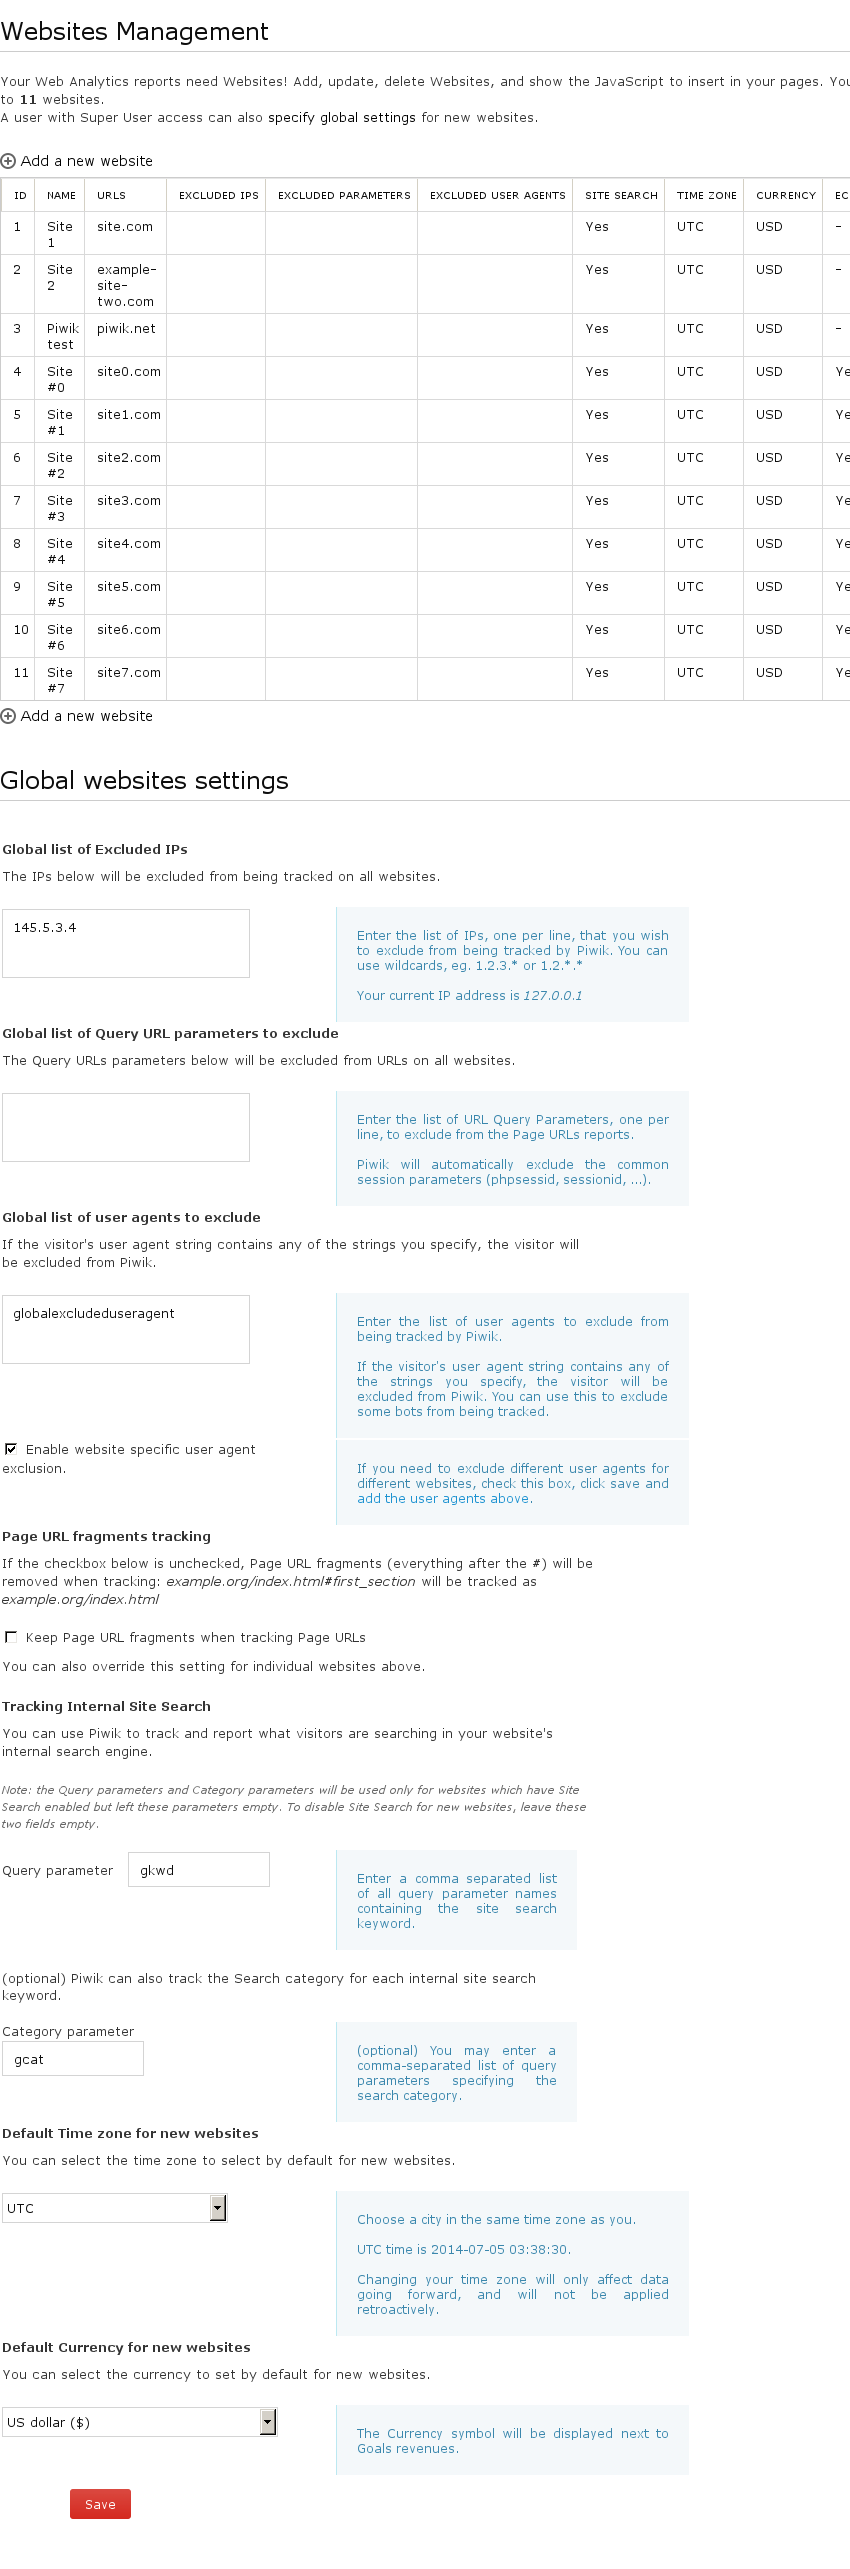
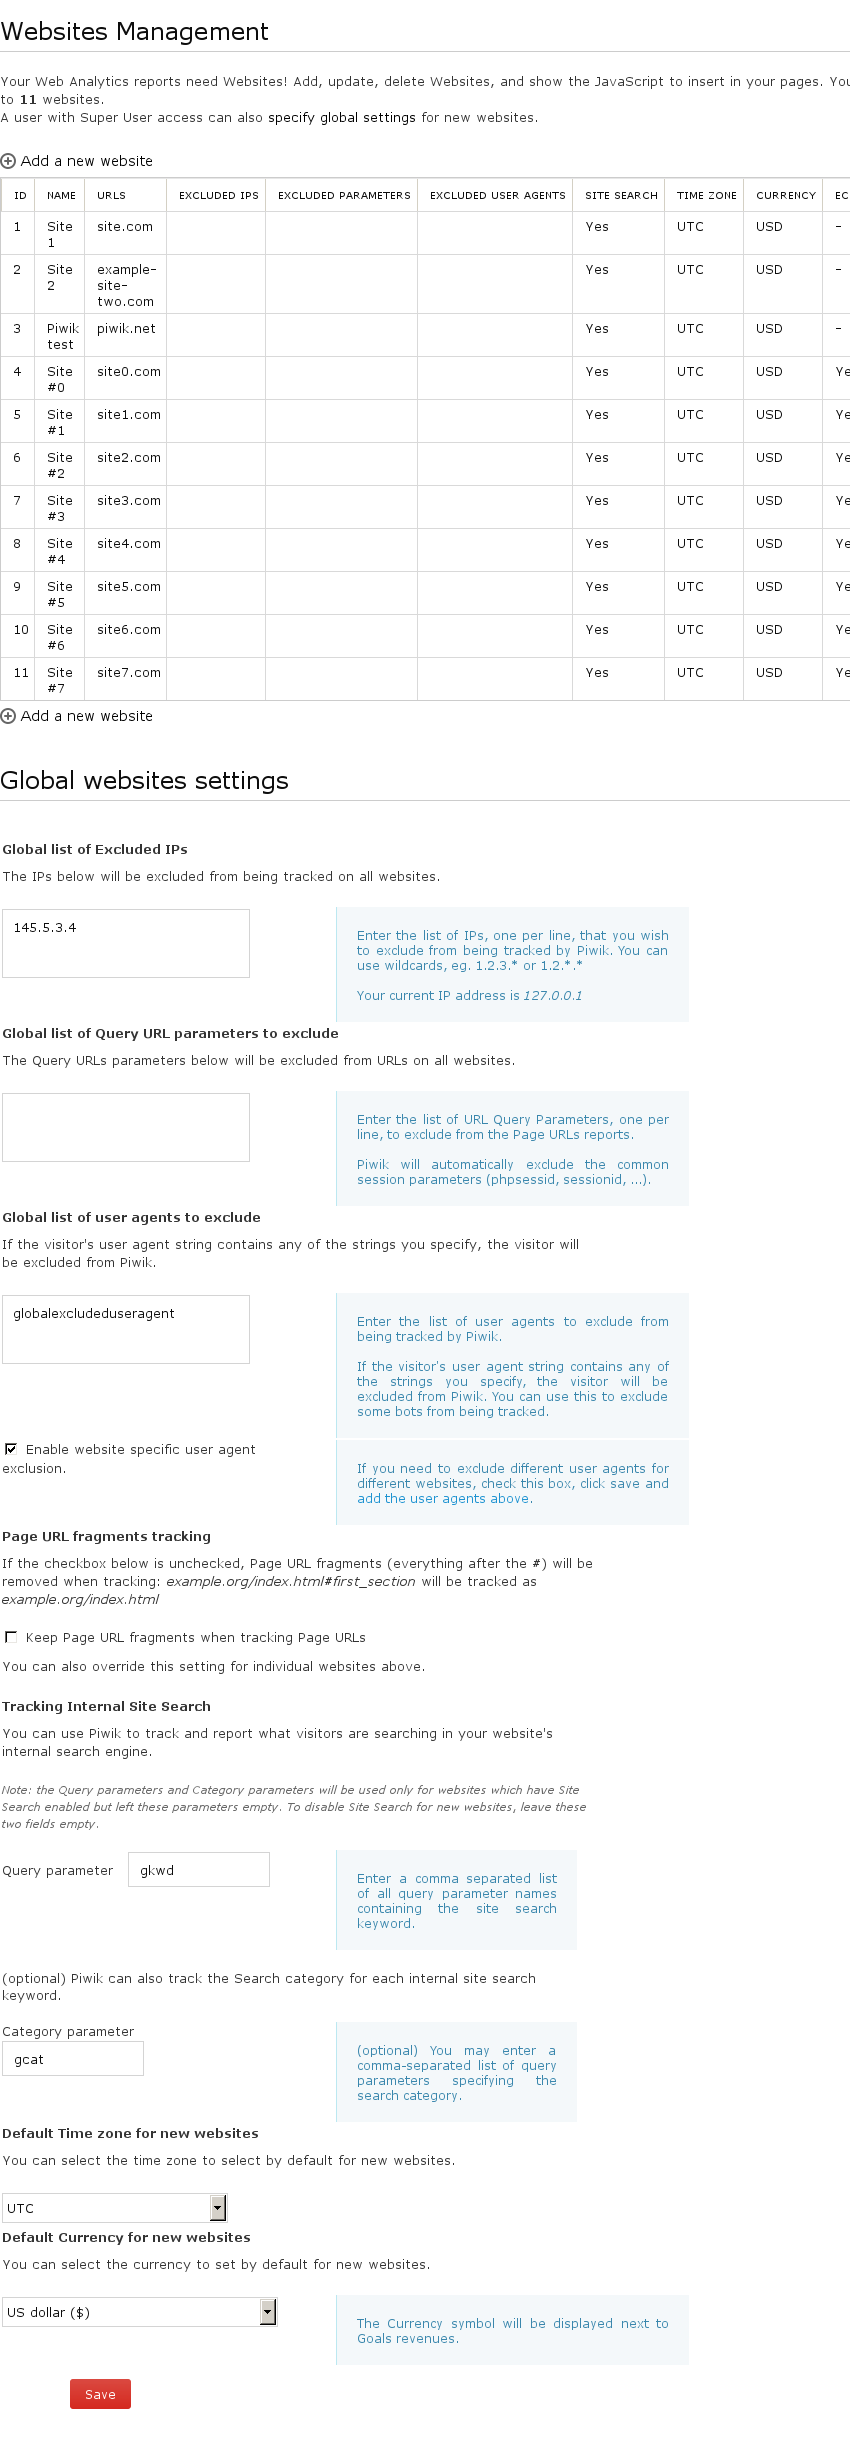
Fixing UI tests. [ci skip]

diff --git a/specs/UIIntegration_spec.js b/specs/UIIntegration_spec.js
@@ -288,7 +288,7 @@ describe("UIIntegrationTest", function () { // TODO: Rename to Piwik?
         expect.screenshot('admin_manage_websites').to.be.captureSelector('#content', function (page) {
             page.load("?" + generalParams + "&module=SitesManager&action=index");
             page.evaluate(function () {
-                $('.ui-inline-help:content(UTC time is)').hide();
+                $('.ui-inline-help:contains(UTC time is)').hide();
             });
         }, done);
     });
